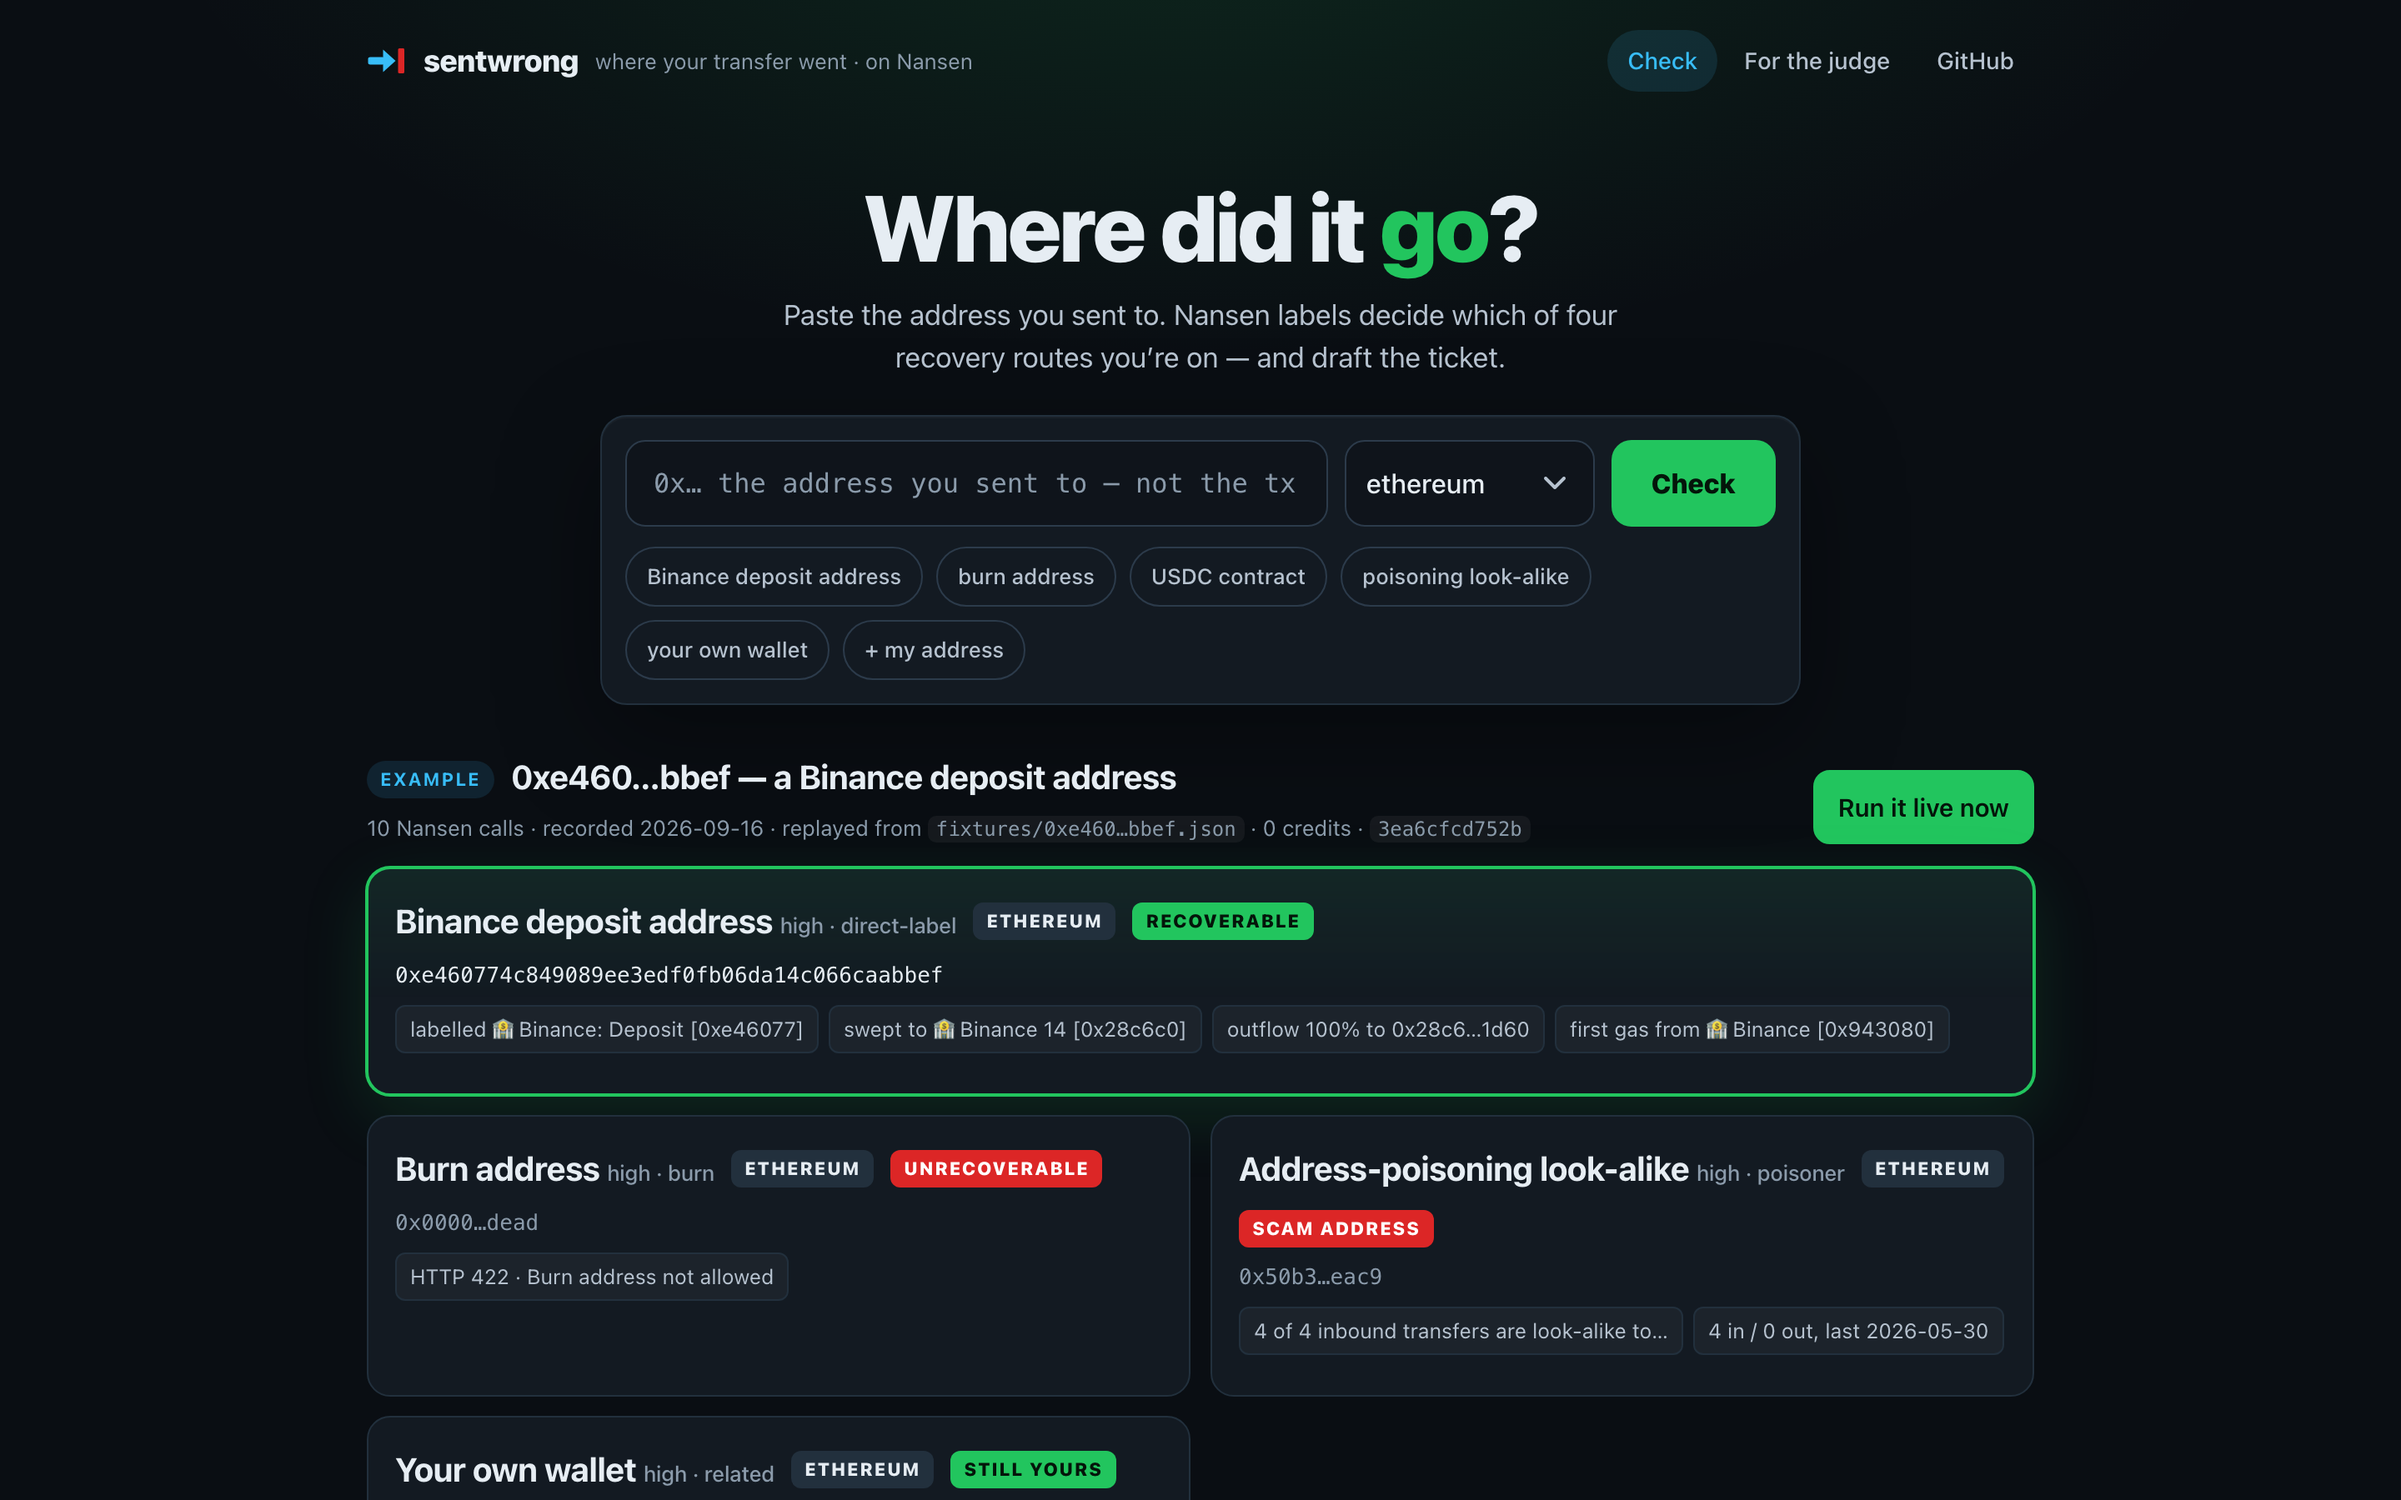
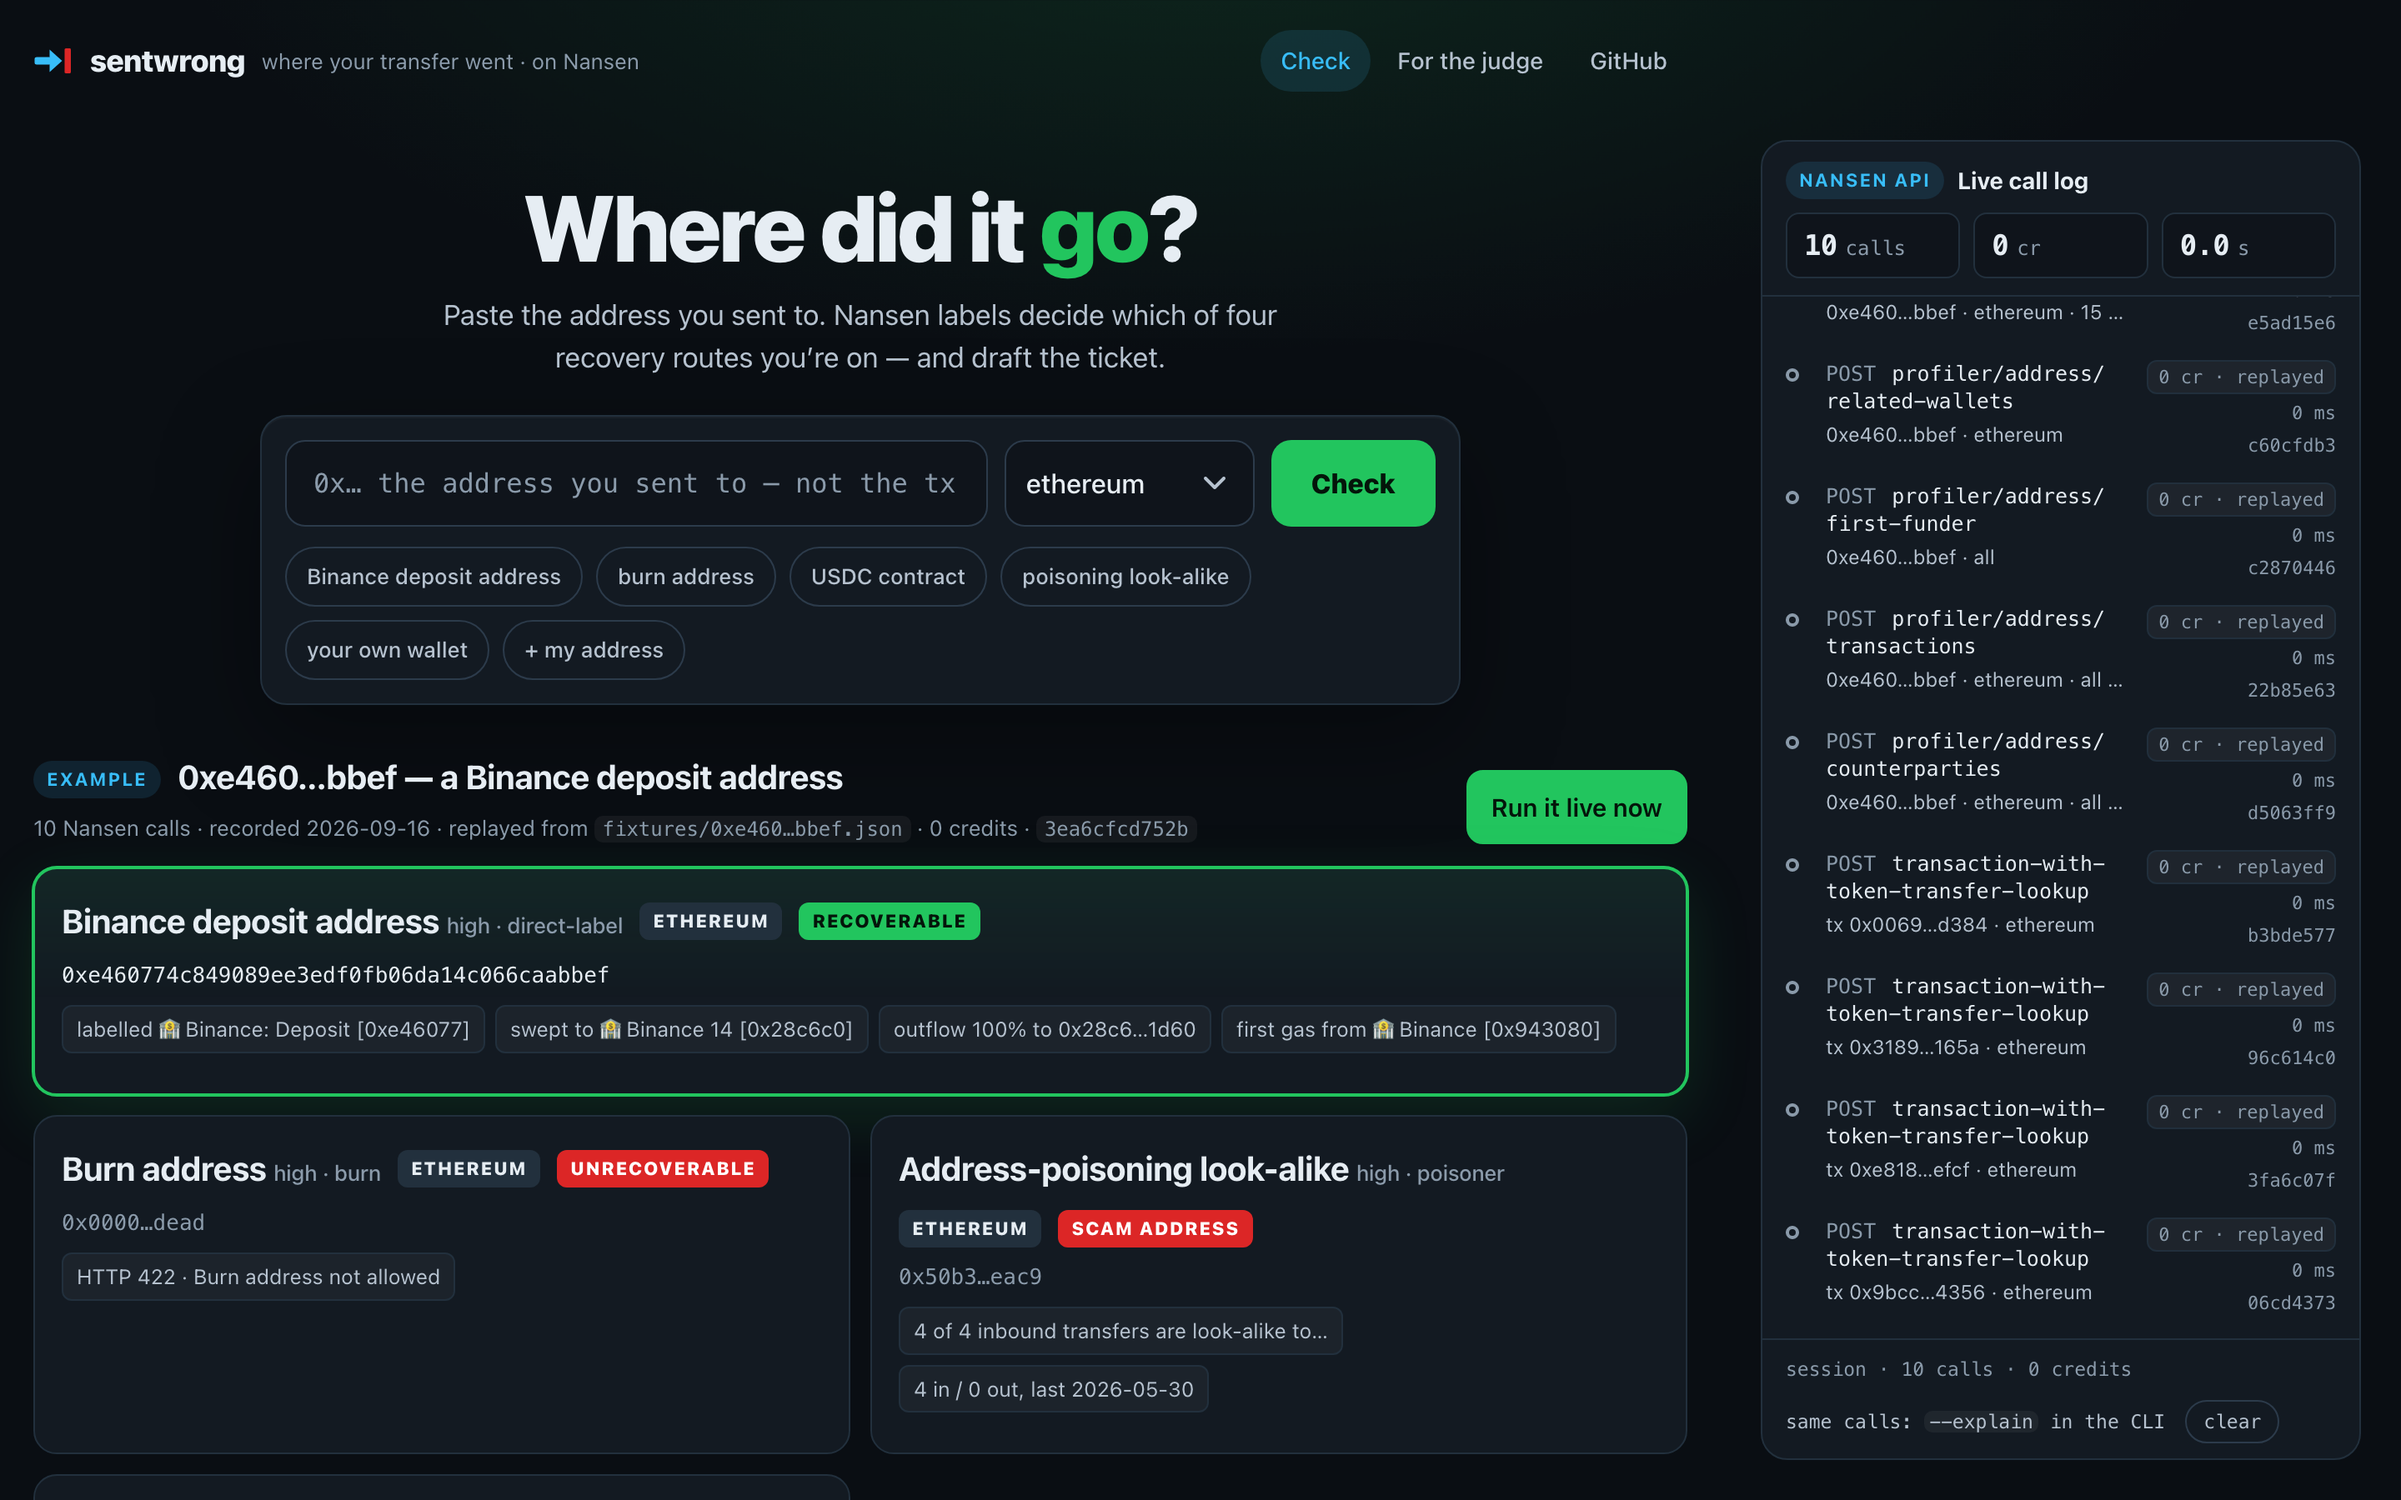
docs: demo GIF and screenshots retaken with the Nansen call rail (06-call-rail.png: live hero run, 13 credits · 10 calls · 3.4 s)

diff --git a/README.md b/README.md
@@ -27,16 +27,16 @@
 
 ## 📸 See it in Action
 
-<img src="docs/demo.gif" alt="Sent Wrong — 16 s demo: paste the address you sent to, Nansen calls land one by one (funder, counterparties, transfer labels), verdict: recoverable — a Binance deposit address — and the prefilled support ticket" width="100%">
+<img src="docs/demo.gif" alt="Sent Wrong — 17 s demo: paste the address you sent to; on the right the Nansen call rail streams every call as it happens (pending ring → green dot, POST endpoint, credits, ms, response hash, counters ticking); verdict: recoverable — a Binance deposit address — and the prefilled support ticket" width="100%">
 
 | | |
 |---|---|
-| ![input](docs/screenshots/01-input.png) | ![burn address](docs/screenshots/03-burn.png) |
-| [input](docs/screenshots/01-input.png) | [burn address](docs/screenshots/03-burn.png) |
-| ![poisoning look-alike](docs/screenshots/04-poisoner.png) | ![your own wallet, mobile](docs/screenshots/05-own-wallet-mobile.png) |
-| [poisoning look-alike](docs/screenshots/04-poisoner.png) | [your own wallet, mobile](docs/screenshots/05-own-wallet-mobile.png) |
+| ![the Nansen call rail after a live run — 10 green rows, 13 credits, 3.4 s](docs/screenshots/06-call-rail.png) | ![input](docs/screenshots/01-input.png) |
+| [the Nansen call rail, live run](docs/screenshots/06-call-rail.png) | [input](docs/screenshots/01-input.png) |
+| ![burn address](docs/screenshots/03-burn.png) | ![poisoning look-alike](docs/screenshots/04-poisoner.png) |
+| [burn address](docs/screenshots/03-burn.png) | [poisoning look-alike](docs/screenshots/04-poisoner.png) |
 
-Screenshots: [input](docs/screenshots/01-input.png) · [Binance deposit](docs/screenshots/02-binance-deposit.png) · [burn address](docs/screenshots/03-burn.png) · [poisoning look-alike](docs/screenshots/04-poisoner.png) · [your own wallet, mobile](docs/screenshots/05-own-wallet-mobile.png)
+Screenshots: [the Nansen call rail, live run](docs/screenshots/06-call-rail.png) · [input](docs/screenshots/01-input.png) · [Binance deposit](docs/screenshots/02-binance-deposit.png) · [burn address](docs/screenshots/03-burn.png) · [poisoning look-alike](docs/screenshots/04-poisoner.png) · [your own wallet, mobile](docs/screenshots/05-own-wallet-mobile.png)
 
 ## 💡 The Problem & Solution
 
